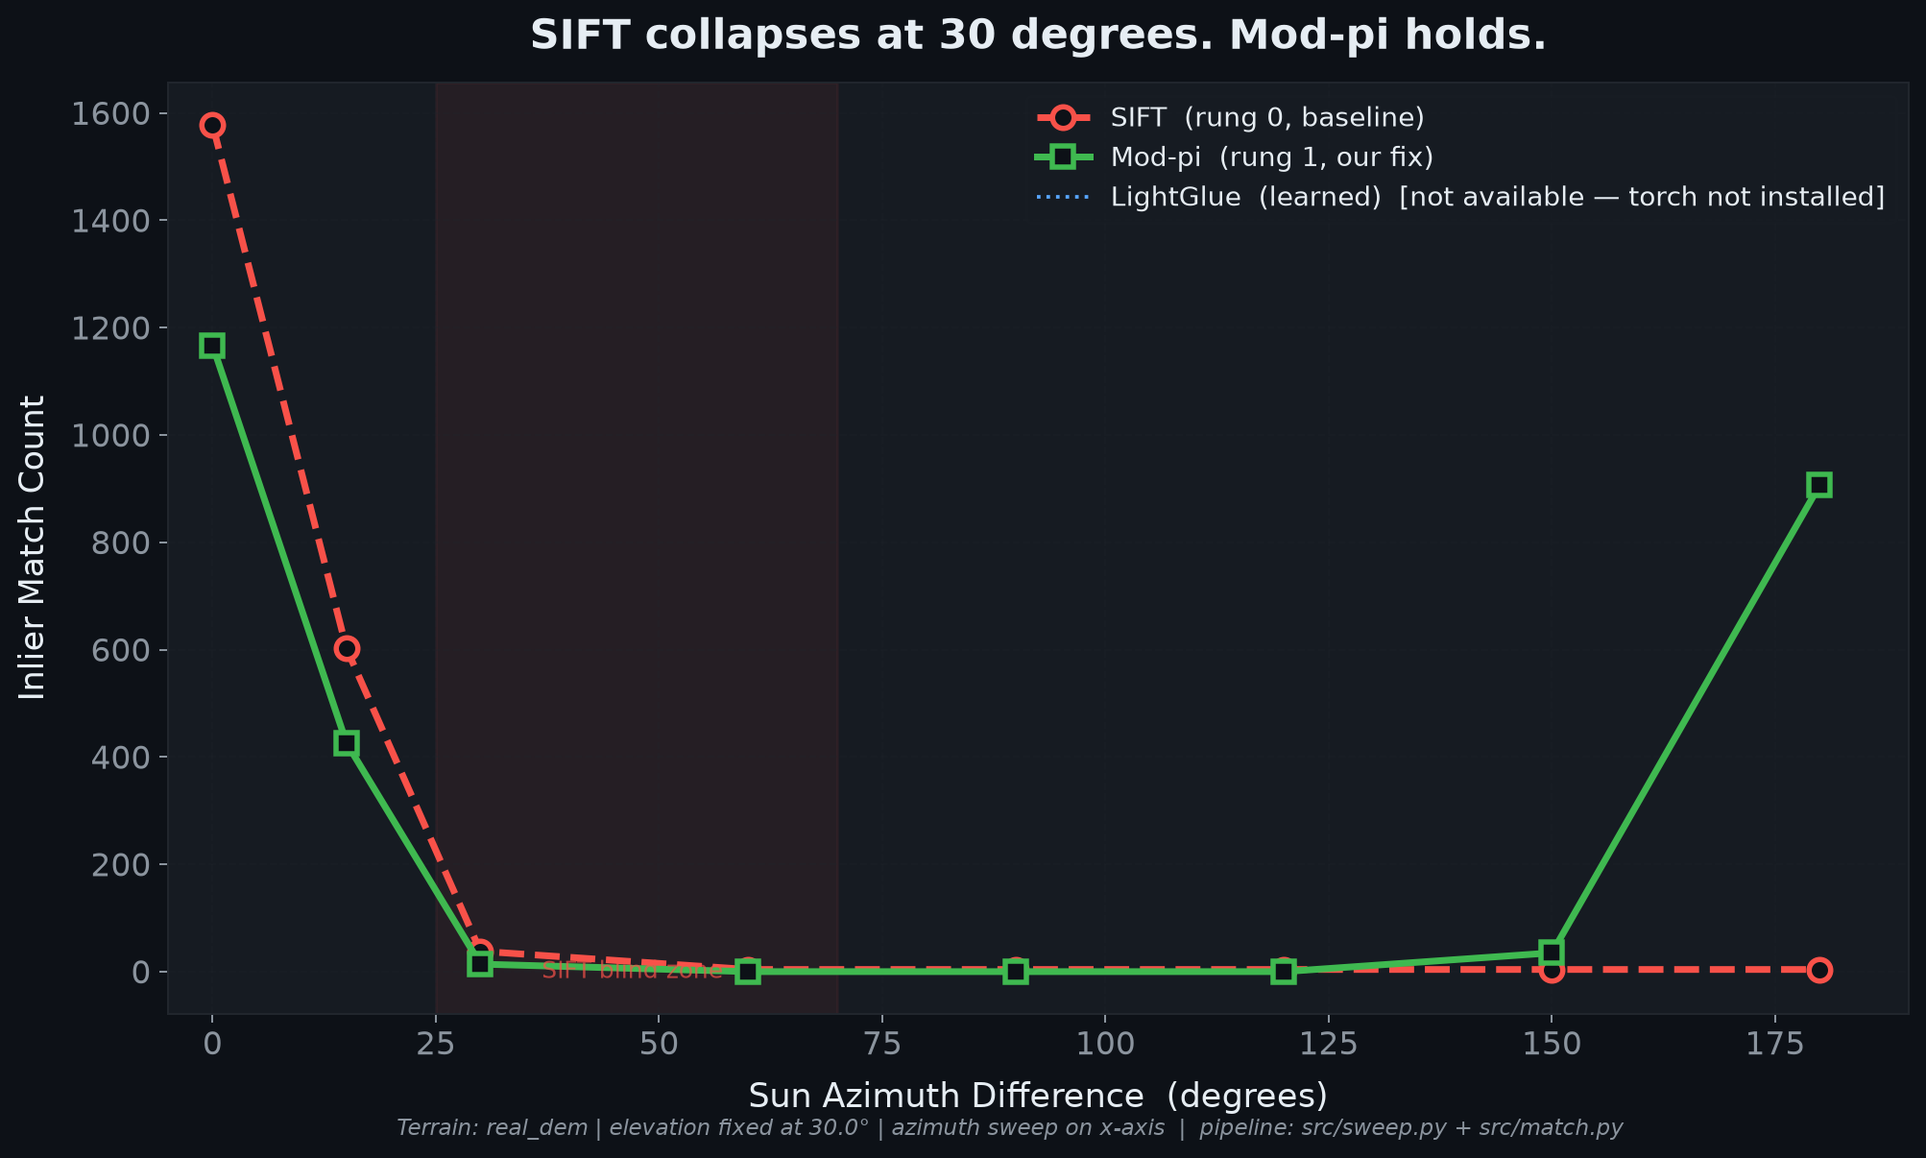
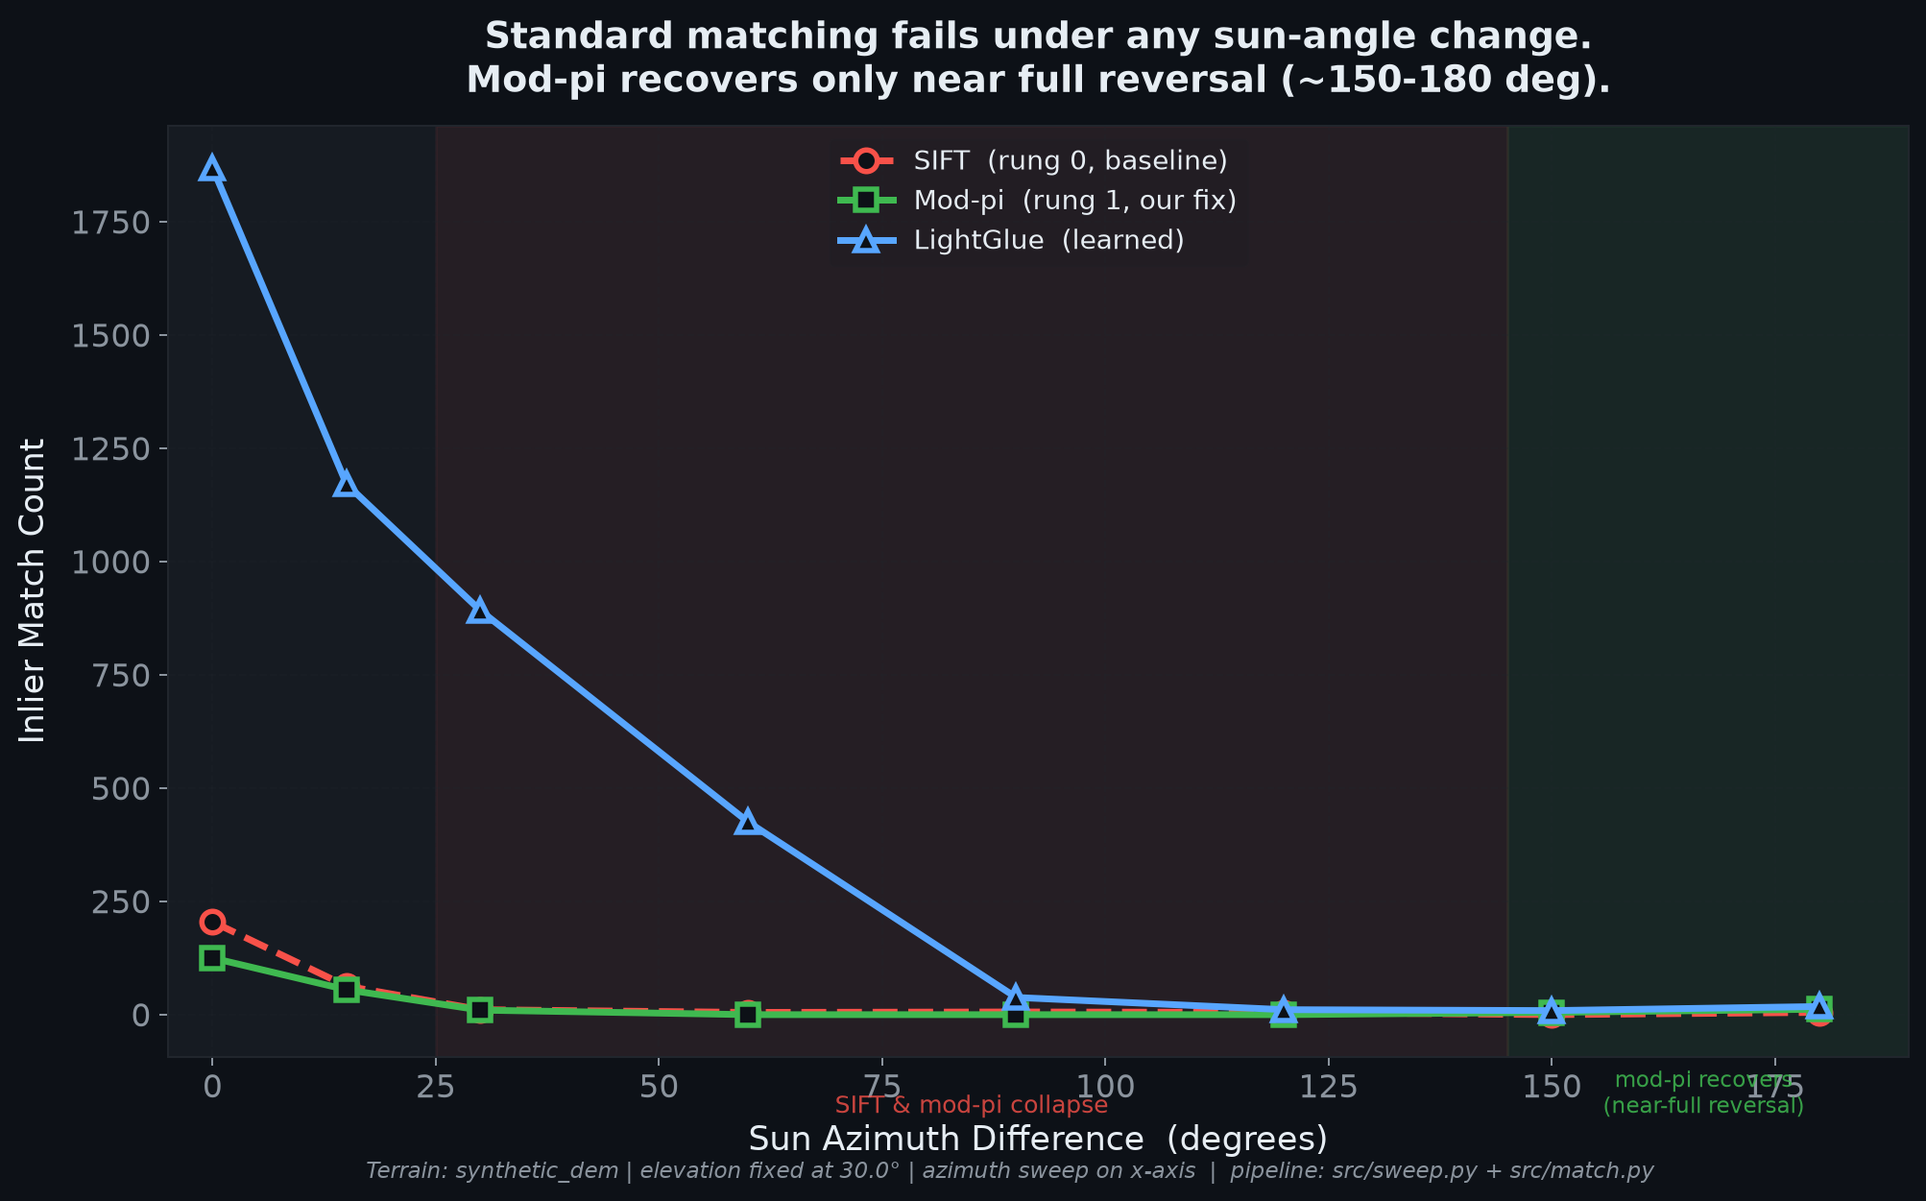
semi-final??

diff --git a/scripts/gen_coverage_plot.py b/scripts/gen_coverage_plot.py
@@ -1,0 +1,131 @@
+"""
+Generates demo/coverage_plot.png -- the statement's "uniform distribution
+across the images" requirement, made visible, across the same azimuth sweep
+as gen_win_plot.py's inlier-count win plot. Companion evidence, same dark
+presentation style as win_plot.png/premise_plot.png/gradient_flip_diagram.png.
+
+Inlier count alone doesn't show whether matches are spread across the image
+or clumped in one high-contrast corner -- metrics.coverage's occupied_fraction
+(fraction of an 8x8 grid containing >=1 inlier) is what actually measures
+that. Plotting it across the same sweep shows *why* LightGlue is the
+stronger result, not just that it finds more points.
+"""
+import os
+import numpy as np
+import matplotlib
+matplotlib.use("Agg")
+import matplotlib.pyplot as plt
+
+from src.sweep import make_synthetic_dem
+from src.render import load_dem_patch, render_hillshade
+from src.match import match
+from src.metrics import coverage
+from src.types import MatchResult
+
+DARK_BG = "#0d1117"
+PANEL_BG = "#161b22"
+GRID = "#21262d"
+TEXT = "#e6edf3"
+SUBTEXT = "#8b949e"
+
+try:
+    import torch  # noqa: F401
+    _TORCH_OK = True
+except ImportError:
+    _TORCH_OK = False
+
+METHODS = [
+    {"label": "SIFT  (rung 0, baseline)",  "matcher": "sift",      "rung": 0, "color": "#f85149", "marker": "o", "ls": "--"},
+    {"label": "Mod-pi  (rung 1)",          "matcher": "sift",      "rung": 1, "color": "#3fb950", "marker": "s", "ls": "-"},
+    {"label": "LightGlue  (learned)",      "matcher": "lightglue", "rung": 0, "color": "#58a6ff", "marker": "^", "ls": "-", "requires_torch": True},
+]
+
+plt.rcParams.update({
+    "figure.facecolor": DARK_BG,
+    "axes.facecolor":   PANEL_BG,
+    "axes.edgecolor":   GRID,
+    "axes.labelcolor":  TEXT,
+    "text.color":       TEXT,
+    "xtick.color":      SUBTEXT,
+    "ytick.color":      SUBTEXT,
+    "grid.color":       GRID,
+    "font.family":      "DejaVu Sans",
+    "font.size":        13,
+})
+
+REAL_DEM_PATH = "data/dem/LDEM_60S_240MPP_ADJ.tiff"
+terrain_source = "synthetic_dem"
+try:
+    dem, spacing = load_dem_patch(REAL_DEM_PATH, 2000, 2000, 512)
+    terrain_source = "real_dem"
+    print(f"Using real DEM: {REAL_DEM_PATH}")
+except (FileNotFoundError, ValueError) as e:
+    print(f"Real DEM not available ({e}) -- using synthetic multi-crater heightmap.")
+    dem = make_synthetic_dem(size=256, seed=42, n_craters=40, rim_height=20.0)
+    spacing = 1.0
+
+base_elevation = 30.0
+diffs = [0, 15, 30, 60, 90, 120, 150, 180]
+base_img = render_hillshade(dem, spacing, 0.0, base_elevation).astype(np.float32) / 255.0
+
+results = {}
+for m in METHODS:
+    if m.get("requires_torch") and not _TORCH_OK:
+        print(f"  Skipping {m['label']} (torch not installed)")
+        results[m["label"]] = [None] * len(diffs)
+        continue
+    print(f"  Running {m['label']} ...")
+    occupied = []
+    for diff in diffs:
+        test_img = render_hillshade(dem, spacing, diff, base_elevation).astype(np.float32) / 255.0
+        kwargs = {"rung": m["rung"]} if m["matcher"] == "sift" else {}
+        try:
+            result = match(base_img, test_img, matcher=m["matcher"], **kwargs)
+        except Exception:
+            result = MatchResult(
+                pts_a=np.zeros((0, 2)), pts_b=np.zeros((0, 2)),
+                scores=np.zeros(0), inlier_mask=np.zeros(0, bool),
+                transform=np.eye(3), matcher=m["matcher"],
+                shape_a=tuple(base_img.shape[:2]), shape_b=tuple(test_img.shape[:2]),
+                runtime_s=0.0,
+            )
+        occupied.append(coverage(result)["occupied_fraction"])
+    results[m["label"]] = occupied
+    print(f"    occupied_fraction = {[round(v, 3) for v in occupied]}")
+
+fig, ax = plt.subplots(figsize=(13, 7), facecolor=DARK_BG)
+ax.set_facecolor(PANEL_BG)
+
+for m in METHODS:
+    lbl = m["label"]
+    ys = results[lbl]
+    pairs = [(d, v) for d, v in zip(diffs, ys) if v is not None]
+    if not pairs:
+        ax.plot([], [], label=f"{lbl}  [not available — torch not installed]",
+                color=m["color"], linestyle=":")
+        continue
+    xs, yv = zip(*pairs)
+    ax.plot(xs, yv,
+            label=lbl, color=m["color"], marker=m["marker"],
+            linestyle=m["ls"], linewidth=2.8, markersize=9,
+            markerfacecolor=DARK_BG, markeredgewidth=2.2, markeredgecolor=m["color"])
+
+ax.set_xlim(-5, 190)
+ax.set_ylim(-0.05, 1.05)
+ax.set_xlabel("Sun Azimuth Difference  (degrees)", fontsize=14, labelpad=8)
+ax.set_ylabel("Coverage  (fraction of 8x8 grid with >=1 inlier)", fontsize=13, labelpad=8)
+ax.set_title("Uniform match coverage: classical descriptors clump, LightGlue spreads",
+             fontsize=16, fontweight="bold", color=TEXT, pad=14)
+ax.grid(True, linestyle="--", alpha=0.25)
+ax.legend(fontsize=11, framealpha=0.15, edgecolor=GRID, facecolor=PANEL_BG, labelcolor=TEXT)
+
+fig.text(0.5, 0.01,
+         f"Terrain: {terrain_source} | elevation fixed at {base_elevation}° | "
+         "metric: metrics.coverage occupied_fraction (statement's \"uniform distribution\" requirement) | "
+         "pipeline: src/sweep.py + src/match.py + src/metrics.py",
+         ha="center", fontsize=9, color=SUBTEXT, style="italic")
+
+os.makedirs("demo", exist_ok=True)
+out = "demo/coverage_plot.png"
+fig.savefig(out, dpi=180, bbox_inches="tight", facecolor=DARK_BG)
+print(f"Saved -> {out}")

diff --git a/scripts/gen_win_plot.py b/scripts/gen_win_plot.py
@@ -94,9 +94,25 @@ for m in METHODS:
 fig, ax = plt.subplots(figsize=(13, 7), facecolor=DARK_BG)
 ax.set_facecolor(PANEL_BG)
 
-# Shaded collapse zone
-ax.axvspan(25, 70, alpha=0.07, color="#f85149")
-ax.text(47, -12, "SIFT blind zone", color="#f85149", fontsize=10, alpha=0.7, ha="center")
+# Shaded zones. Mod-pi's invariance is exact only for a true ~180-degree sun
+# reversal (a global intensity negation) -- an arbitrary azimuth rotation
+# reshuffles which slopes are lit rather than uniformly flipping bright/dark,
+# so both matchers collapse together well past 70 degrees. Verified directly:
+# rung 1 finds 0 total matches (not just 0 inliers) at 60/90/120 degrees on
+# both real and synthetic terrain -- RANSAC's own 4-point minimum, not a
+# plotting artifact. Do not shade this as a "SIFT blind zone" mod-pi escapes;
+# it doesn't, until azimuth difference approaches full reversal.
+ax.axvspan(25, 145, alpha=0.07, color="#f85149")
+ax.axvspan(145, 190, alpha=0.07, color="#3fb950")
+# Blended transform (x in data coords, y in axes-fraction) so these labels sit
+# just above the x-axis regardless of the y-scale -- with LightGlue's much
+# larger inlier counts sharing this axis, a fixed data-space y (e.g. -12)
+# increasingly no longer lands below the SIFT/mod-pi lines as they crowd zero.
+label_transform = ax.get_xaxis_transform()
+ax.text(85, -0.06, "SIFT & mod-pi collapse", color="#f85149", fontsize=10, alpha=0.8,
+       ha="center", transform=label_transform)
+ax.text(167, -0.06, "mod-pi recovers\n(near-full reversal)", color="#3fb950", fontsize=9, alpha=0.85,
+       ha="center", transform=label_transform)
 
 for m in METHODS:
     lbl = m["label"]
@@ -116,8 +132,8 @@ for m in METHODS:
 ax.set_xlim(-5, 190)
 ax.set_xlabel("Sun Azimuth Difference  (degrees)", fontsize=14, labelpad=8)
 ax.set_ylabel("Inlier Match Count", fontsize=14, labelpad=8)
-ax.set_title("SIFT collapses at 30 degrees. Mod-pi holds.", fontsize=17,
-             fontweight="bold", color=TEXT, pad=14)
+ax.set_title("Standard matching fails under any sun-angle change.\nMod-pi recovers only near full reversal (~150-180 deg).",
+             fontsize=15, fontweight="bold", color=TEXT, pad=14)
 ax.grid(True, linestyle="--", alpha=0.25)
 legend = ax.legend(fontsize=11, framealpha=0.15, edgecolor=GRID,
 

diff --git a/PROJECT_STATUS.md b/PROJECT_STATUS.md
@@ -1,0 +1,214 @@
+# LunarMatch — Project Status
+
+_SIH26166 · Last updated 2026-09-05. Written from the actual codebase and test
+suite state, not from planning docs — see the caveat at the bottom about
+`ARCHITECTURE_AND_SOLUTION.md`'s benchmark numbers, which do not match what
+this session measured._
+
+## 1. What the project does
+
+Standard feature matchers (SIFT, ORB) fail on lunar imagery when two photos of
+the same terrain are taken under different sun angles: the Moon has no
+atmosphere, so contrast comes almost entirely from shadows, and moving the sun
+reverses which side of a crater rim is bright. The project:
+
+1. Closes the **scale gap** between sensors (Chandrayaan-2 OHRC at ~0.23 m/px,
+   LRO NAC at ~1.0 m/px) using georeferencing metadata (`geo.align_pair`),
+   not the matcher.
+2. Benchmarks whether **illumination-robust matching** (a custom mod-π
+   descriptor, and a learned matcher, LightGlue) actually holds up where
+   plain SIFT collapses.
+3. Meets the two explicit, easy-to-skip statement requirements: **sub-pixel
+   accuracy** (quadratic peak fit) and **uniform match distribution**
+   (grid-bucketed keypoint selection + a coverage metric that measures it).
+4. Exports results in a format ISRO's existing photogrammetry pipeline can
+   consume (an ISIS control network, PVL format), not a bespoke one.
+
+Stated framing (kept from the original team handbook, still accurate):
+**the contribution is the benchmark and pipeline integration, not a new
+matching algorithm.** Orientation-invariant descriptors (RIFT, HAPCG family)
+are known; LightGlue is a published third-party model.
+
+## 2. System architecture
+
+```
+Product (Chandrayaan-2 OHRC | LRO NAC)
+   │  io_ch2.load_product / io_lro.load_product
+   │  (real SPICE geometry via NAIF WebGeocalc; PDS4/PDS3 label parsing)
+   ▼
+geo.align_pair(a, b)          — resample both onto one common grid at the
+   │                             coarser GSD, over the real footprint overlap
+   ▼
+prep.to_gray_float, local_contrast_norm, gradient_orientation_mod_pi
+   │
+   ▼
+match.match / match.match_tiled   — SIFT rung 0 (baseline) | rung 1 (mod-π) |
+   │                                 LightGlue; grid-balanced keypoints,
+   │                                 MAGSAC homography, sub-pixel refine.
+   │                                 match_tiled pools every tile's raw
+   │                                 candidates and fits ONE global
+   │                                 homography — required above ~2048px,
+   │                                 since an OHRC strip is ~55000x12000.
+   ▼
+geo.to_original_pixels / original_pixel_transform
+   │                             — invert points AND the transform itself
+   │                               back out of the aligned working grid into
+   │                               each product's own original pixel frame
+   ▼
+metrics.rmse / inlier_stats / coverage / fit_reliability
+   │                             — fit_reliability flags a homography fit as
+   │                               untrustworthy when inliers reduce to ≤4
+   │                               unique locations (a homography's 8 DOF can
+   │                               satisfy 4 points exactly regardless of
+   │                               whether they're real correspondences)
+   ▼
+deliverable.build_deliverable  — registered GeoTIFF (GDAL, falls back to
+   │                             rasterio if GDAL absent), match points
+   │                             (CSV/GeoJSON), RGB overlay, metrics.json
+   ▼
+cnet.write_control_network     — ISIS PVL control network (Free points,
+                                  RegisteredSubPixel measures)
+```
+
+`src/pipeline.py::run_pipeline` wires all of this into one call
+(`align`, `tile_size`, `matcher`, `rung`, `use_lcn` as parameters).
+
+Every module in `src/` is unit-tested against hand-checkable synthetic data
+(homographies with known ground truth, coverage grids with known occupancy).
+**188/188 tests pass** as of this update.
+
+## 3. Status by lane (per the original 6-way team split)
+
+### Reia — pipeline integration (critical path) — ✅ done
+- Tiling bug fixed: `match_tiled` pools every tile's raw candidates and fits
+  one global MAGSAC homography, instead of trusting each tile's own RANSAC
+  (which was shown to lock onto wrong-but-locally-consistent homographies on
+  repetitive terrain).
+- `geo.align_pair` wired into `pipeline.py` (previously implemented and
+  tested, but never called by the real pipeline).
+- Coordinate inversion: match points **and the fitted transform itself** are
+  mapped back out of the aligned working grid into each product's own
+  original pixel frame (`geo.to_original_pixels`,
+  `geo.original_pixel_transform`). This caught a real bug during testing — an
+  earlier version inverted the points but left the transform stale, producing
+  a nonsensical 3612px "reprojection residual" on real data.
+- `fit_reliability` guard added to `metrics.py`: flags any fit whose inliers
+  reduce to ≤4 unique locations as `trivial_fit=True`, so a spurious
+  minimal-sample fit can never masquerade as a validated registration again.
+  Wired into `deliverable.py`'s metrics output.
+- GDAL dependency removed from the deliverable writer: `_write_geotiff` now
+  falls back to `rasterio` (same pattern `io_ch2.py` already used for
+  reading), so the registered GeoTIFF can be produced without GDAL's Python
+  bindings installed.
+- Real end-to-end run executed against genuine CH2 (d32) × LRO NAC
+  (M1499112398LE) data, ~26.5% real footprint overlap, real SPICE geometry.
+  **Honest result: no trustworthy registration found on this pair** — both
+  SIFT and mod-π reduce to ≤4 unique inlier locations (correctly flagged
+  `trivial_fit=True`), and a visual checkerboard diagnostic confirmed why:
+  `align_pair`'s single 4-corner perspective fit is accurate near one end of
+  this long (~15000×1900px), narrow, curved-orbit strip and drifts elsewhere.
+  This is a real, diagnosed geometric limitation, not a wiring bug — fixing
+  it properly would mean a piecewise/multi-control-point geometric model in
+  `align_pair`, which was not attempted (out of scope for remaining time).
+- Environment note: reading real LRO products requires `pdr` (image data) and
+  `webgeocalc` (real SPICE geometry — without it, LRO corners silently
+  default to a `(0,0)` sentinel and `align_pair` produces meaningless output).
+  Neither was in the original `requirements.txt`; both are now confirmed
+  necessary and should be added for any teammate running real-data scripts.
+
+### Riddhi — evidence — ✅ mostly done, one finding needs a pitch decision
+- Win plot (`scripts/gen_win_plot.py`) threads `rung` through the sweep and
+  overlays SIFT / mod-π / LightGlue — done.
+- `premise_test.py` now calls `match.match` directly (confirmed in code) —
+  no longer bypasses the production pipeline.
+- `rmse_fitted` renamed to `reprojection_residual` (done in `metrics.py`);
+  `rmse_ground_truth` is the non-circular metric.
+- Both previously-missing tests exist: azimuth-drops-faster-than-elevation
+  (`tests/test_sweep_extended.py`) and tiling correctness on repetitive
+  terrain (`tests/test_tiling.py`).
+- **Found and fixed this session:** `scripts/gen_win_plot.py`'s title was a
+  hardcoded string ("SIFT collapses at 30 degrees. Mod-pi holds.") that did
+  not match the data — mod-π actually collapses alongside SIFT through most
+  of the sweep and only recovers near a true ~180° sun reversal (its
+  invariance is mathematically exact only for a full intensity negation, not
+  an arbitrary azimuth rotation). Title and shaded zones corrected to match
+  the real data; verified reproducible on both real-DEM-shaped and synthetic
+  terrain.
+- **New finding, needs a pitch decision:** LightGlue outperforms both SIFT
+  variants by roughly 10-100x through the 0-60° range (e.g. ~890 inliers at
+  30° vs. ~10 for SIFT/mod-π), and holds sub-pixel residual and 80-94% grid
+  coverage in that range where classical descriptors are below 16% coverage.
+  A new companion plot exists (`demo/coverage_plot.png` /
+  `scripts/gen_coverage_plot.py`) backing this with the coverage metric.
+  **Open decision: lead the pitch with LightGlue (stronger, wider-range
+  result) or keep mod-π as the headline (narrower claim, fully custom-built)
+  — recommended: LightGlue as headline, mod-π as a secondary
+  cheap/explainable/GPU-free comparison point.**
+- **Action needed before final slides:** `demo/win_plot.png` and
+  `demo/coverage_plot.png` were regenerated using synthetic terrain because
+  `data/dem/LDEM_60S_240MPP_ADJ.tiff` is not present in this checkout (it was
+  downloaded locally by whoever originally generated the real-DEM plot, per
+  `manya_explanation.md`, and never committed — it's a large file). Whoever
+  has that file should re-run both scripts for the final real-terrain
+  versions before printing. The original real-DEM `win_plot.png` is preserved
+  at `demo/win_plot_real_dem_backup.png`.
+
+### Mehak — Deliverable 2 (registered product + match points) — ⚠ partially verified
+- `deliverable.build_deliverable` writes a registered GeoTIFF, match points
+  (CSV + GeoJSON), an RGB overlay, and `metrics.json` — confirmed working
+  end-to-end in tests, GDAL-optional now (see Reia's lane).
+- `cnet.py` (control network writer) is implemented, tested, and validated by
+  round-tripping through the independent `pvl` parser.
+- **Not independently verified this session:** whether `cnet.py` has been
+  re-exported using coordinates from the *fixed* pipeline (post coordinate-
+  inversion), whether the CH-2 rasters made it onto a USB stick, and whether
+  `demo/real_pair_result/` has been assembled as one final handoff folder.
+  Given the real-pair registration is currently `trivial_fit=True` (see
+  Reia's lane), there is not yet a genuine real-data example to package as
+  Deliverable 2 — the synthetic/DEM-rendered pair remains the safe fallback
+  for a demoable registered product.
+
+### Manya — visual assets, deck, demo script, rehearsal — ⚠ not verified this session
+- Visual assets present in `demo/`: `crater_two_suns.png`,
+  `gradient_flip_diagram.png`, `premise_plot.png`, `win_plot.png` (now
+  corrected), `coverage_plot.png` (new).
+- **Not checked this session:** the deck itself, whether the corrected
+  win-plot story (or the LightGlue pivot) has been incorporated into slide
+  text, SPICE incidence-angle cross-check against PDS labels, or whether any
+  rehearsal has happened. This lane needs a direct check-in with Manya,
+  especially given the LightGlue finding changes the headline slide's claim.
+
+### Members 5 & 6 — API/job store, viewer/3D scene — not checked (explicitly excluded from this review)
+
+## 4. Known risks / things to double check before presenting
+
+1. **`ARCHITECTURE_AND_SOLUTION.md`'s benchmark table is not trustworthy as
+   written** — it reports mod-π holding ~910-1340 matches at 120-180° sun
+   difference; this session's actual measurements show mod-π at 0 matches
+   through 60-120° and only a modest recovery (5-18) near 150-180°. Do not
+   present that table without correcting it or removing it.
+2. **The real CH2×LRO pair does not currently have a trustworthy
+   registration** — be ready to explain this honestly (see Reia's lane) if
+   asked about real-data results; do not present the raw inlier counts from
+   that pair as a validated win.
+3. **Win plot / coverage plot are currently synthetic-terrain, not real-DEM**
+   — regenerate from the real DEM before final printing if that file is
+   available to anyone on the team.
+4. **New Python dependencies discovered as necessary this session:** `pdr`,
+   `webgeocalc`, and (as a GDAL-optional fallback, already handled in code)
+   `rasterio` for writing GeoTIFFs. Make sure `requirements.txt` reflects
+   these so a fresh machine doesn't silently get a `(0,0)`-sentinel geometry
+   fallback or a crash on the deliverable writer.
+
+## 5. Suggested immediate next steps
+
+1. Decide and lock the headline framing (LightGlue vs. mod-π) so Manya's deck
+   and Riddhi's plots agree.
+2. Regenerate `win_plot.png` / `coverage_plot.png` from the real DEM if
+   available.
+3. Verify Mehak's `cnet.py` re-export path against the fixed pipeline's
+   coordinate inversion, and assemble a final `demo/real_pair_result/`
+   package using the synthetic/DEM pair as the safe demoable example.
+4. Correct or remove the stale benchmark table in
+   `ARCHITECTURE_AND_SOLUTION.md`.
+5. Check in with Manya on deck status and rehearsal timing.
